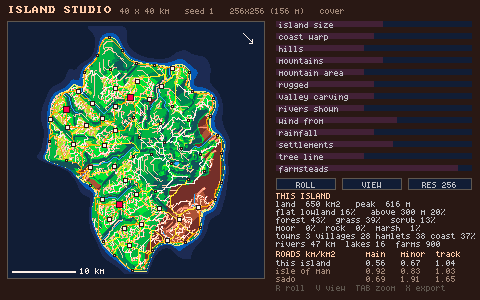
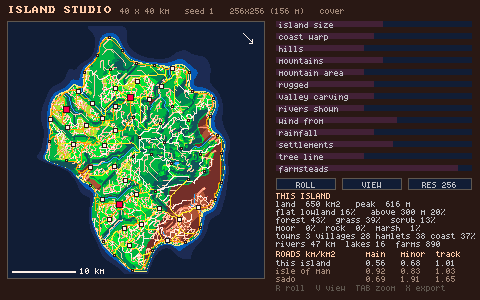
islandstudio: town streets (towns and villages get a street grid instead of a star)
citygen's district-fill method (rotated ~130 m lattice, spanning tree + loops; 85% loops in
the core, 40% outside) laid on the road grid, aligned to the main road in, snapped onto the
routes that enter. Bresenham street cells keep streets straight through the smoother.
Seed 3 @1024: minor 0.46 -> 0.52, X 5% -> 11%, circuity 1.62 -> 1.45. 256 calibration holds.
Export contract unchanged (streets are kind road).

Changed region(s): [[0.0938, 0.21, 0.4375, 0.9], [0.2188, 0.12, 0.25, 0.18]]

diff --git a/tools/carts/islandstudio.c b/tools/carts/islandstudio.c
@@ -849,6 +849,140 @@ static void farms(void) {
     }
 }
 
+// ── TOWN STREETS: towns and villages get a street grid instead of being a star of routes that all
+// end at one centre cell. citygen.h's method (rung 4, calibrated to real cities), re-done on the
+// road GRID so streets go through the same smoothing, junction consolidation, splitting and export
+// as every other road: a rotated lattice (~130 m blocks) aligned to the main road in, clipped to a
+// ragged disc on buildable land; nodes near an existing road snap onto it (the routes in become
+// the town's main streets); a spanning tree for connectivity plus a fraction of loops (more in the
+// core, fewer at the edge: a grid centre, cul-de-sacs outside). citygen.h itself isn't included:
+// it reads worldnet.h's terrain, not this island's.
+#define TS_LG 15
+static int st_streets;                      // street segments laid (trace)
+static int ts_find(int *uf, int x) { while (uf[x] != x) x = uf[x] = uf[uf[x]]; return x; }
+static int ts_road(int c) { for (int k = 0; k < 8; k++) if (ER[c][k] && ER[c][k] != RC_EXPRESS) return 1; return 0; }
+static int ts_land(int c) {
+    if (H[c] <= 0 || is_lake(c) || river_cell(c)) return 0;
+    for (int k = 0; k < 8; k++) if (ER[c][k] == RC_EXPRESS) return 0;   // no street onto the expressway
+    return 1;
+}
+// the straight cell run a -> b (as line_cells walks it) into out; 0 if it leaves buildable land or is too steep
+static int ts_path(int a, int b, int *out, int *n) {
+    // Bresenham, 8-connected: the cells hug the true line, so the smoother draws a straight street
+    // (walking diagonal-first then straight made an L the smoother turned into an S-wiggle)
+    int x = a % N, y = a / N, tx = b % N, ty = b / N; *n = 0;
+    int dx = abs(tx - x), dy = -abs(ty - y), sx = tx > x ? 1 : -1, sy = ty > y ? 1 : -1, err = dx + dy;
+    out[(*n)++] = a;
+    while (x != tx || y != ty) {
+        int e2 = 2 * err;
+        if (e2 >= dy) { err += dy; x += sx; }
+        if (e2 <= dx) { err += dx; y += sy; }
+        int c = y * N + x; if (!ts_land(c)) return 0;
+        out[(*n)++] = c;
+    }
+    float len = hypotf((float)(a % N - b % N), (float)(a / N - b / N)) * CELL;
+    return fabsf(H[a] - H[b]) / fmaxf(len, 1) < 0.12f;
+}
+static void town_streets(void) {
+    st_streets = 0;
+    static int lg[TS_LG][TS_LG], uf[TS_LG * TS_LG], deg[TS_LG * TS_LG], onr[TS_LG * TS_LG], cellof[TS_LG * TS_LG];
+    static float rad[TS_LG * TS_LG];
+    static int ea[2 * TS_LG * TS_LG], eb[2 * TS_LG * TS_LG]; static float ew[2 * TS_LG * TS_LG];
+    static int path[MAXN * 2];
+    for (int s = 0; s < nset; s++) {
+        if (set[s].rank == ST_HAMLET) continue;
+        float R = set[s].rank == ST_TOWN ? 600.0f : 230.0f;
+        float step = fmaxf(130.0f, CELL);
+        int c0 = set[s].y * N + set[s].x;
+        float cx = (set[s].x + 0.5f) * CELL, cy = (set[s].y + 0.5f) * CELL;
+        unsigned hs = hsh((unsigned)s * 2654435761u ^ (unsigned)seed * 97u);
+        // orientation: along the biggest road into the centre (walked ~250 m out), else hashed
+        float ang = (hs & 1023) / 1023.0f * 3.14159f; int best = 0;
+        for (int k = 0; k < 8; k++) if (ER[c0][k] > best && ER[c0][k] != RC_EXPRESS) {
+            best = ER[c0][k]; int cur = c0, kk = k, steps = (int)(250.0f / CELL) + 1;
+            for (int q = 0; q < steps; q++) {
+                int nx = cur % N + DX[kk], ny = cur / N + DY[kk]; cur = ny * N + nx;
+                int nk = -1; for (int j = 0; j < 8; j++) if (ER[cur][j] && j != OPP[kk]) { nk = j; break; }
+                if (nk < 0) break; kk = nk;
+            }
+            ang = atan2f((float)(cur / N - set[s].y), (float)(cur % N - set[s].x));
+        }
+        float ca = cosf(ang), sa = sinf(ang);
+        int half = (int)(R / step) + 1; if (2 * half + 1 > TS_LG) half = (TS_LG - 1) / 2;
+        int n = 0;
+        for (int r = -half; r <= half; r++) for (int c = -half; c <= half; c++) {
+            int *slot = &lg[r + half][c + half]; *slot = -1;
+            unsigned h = hsh(hs ^ (unsigned)((r + 31) * 131 + (c + 31)));
+            float d = hypotf((float)r, (float)c) * step;
+            float jit = d < R * 0.45f ? 0.08f : 0.30f;            // a regular core, a looser edge
+            float lx = c * step + ((h & 255) / 255.0f - 0.5f) * step * jit;
+            float ly = r * step + (((h >> 8) & 255) / 255.0f - 0.5f) * step * jit;
+            float px = cx + lx * ca - ly * sa, py = cy + lx * sa + ly * ca;
+            float rr = hypotf(px - cx, py - cy);
+            if (rr > R * (0.8f + 0.35f * ((h >> 16) & 255) / 255.0f)) continue;   // ragged edge
+            int gx = (int)(px / CELL), gy = (int)(py / CELL);
+            if (gx < 1 || gy < 1 || gx >= N - 1 || gy >= N - 1) continue;
+            int cell = (r == 0 && c == 0) ? c0 : gy * N + gx, on = r == 0 && c == 0;
+            if (!on) {                                            // snap onto a road nearby: it becomes a street
+                int sr = (int)(fmaxf(CELL, step * 0.3f) / CELL + 0.5f); float bd = 1e9f;
+                for (int yy = gy - sr; yy <= gy + sr; yy++) for (int xx = gx - sr; xx <= gx + sr; xx++) {
+                    int q = yy * N + xx; if (!ts_road(q)) continue;
+                    float dd = (float)((xx - gx) * (xx - gx) + (yy - gy) * (yy - gy));
+                    if (dd < bd) { bd = dd; cell = q; on = 1; }
+                }
+                if (!on && (!ts_land(cell) || slope_at(cell % N, cell / N) > 0.15f)) continue;
+            }
+            int dup = 0; for (int q = 0; q < n; q++) if (cellof[q] == cell) dup = 1;
+            if (dup) continue;
+            *slot = n; cellof[n] = cell; onr[n] = on; rad[n] = rr; uf[n] = n; deg[n] = 0; n++;
+        }
+        if (n < 2) continue;
+        int root = -1;                                            // everything on a road is already connected
+        for (int q = 0; q < n; q++) if (onr[q]) { if (root < 0) root = q; else uf[ts_find(uf, q)] = ts_find(uf, root); }
+        int ne = 0;
+        for (int r = 0; r < 2 * half + 1; r++) for (int c = 0; c < 2 * half + 1; c++) {
+            int a = lg[r][c]; if (a < 0) continue;
+            int nb[2] = { c + 1 < 2 * half + 1 ? lg[r][c + 1] : -1, r + 1 < 2 * half + 1 ? lg[r + 1][c] : -1 };
+            for (int e = 0; e < 2; e++) if (nb[e] >= 0) {
+                ea[ne] = a; eb[ne] = nb[e];
+                ew[ne] = (hsh(hs ^ (unsigned)(a * 977 + nb[e] * 31 + e)) & 65535) / 65535.0f; ne++;
+            }
+        }
+        for (int i = 1; i < ne; i++) for (int j = i; j > 0 && ew[j] < ew[j - 1]; j--) {
+            float tw = ew[j]; ew[j] = ew[j - 1]; ew[j - 1] = tw;
+            int t = ea[j]; ea[j] = ea[j - 1]; ea[j - 1] = t; t = eb[j]; eb[j] = eb[j - 1]; eb[j - 1] = t;
+        }
+        for (int i = 0; i < ne; i++) {
+            int a = ea[i], b = eb[i], np;
+            if (onr[a] && onr[b]) {                               // both on roads: skip if that road already joins them
+                if (!ts_path(cellof[a], cellof[b], path, &np)) continue;
+                int all = 1; for (int q = 0; q < np && all; q++) if (!ts_road(path[q])) all = 0;
+                if (all) continue;
+            }
+            int ra = ts_find(uf, a), rb = ts_find(uf, b);
+            float d = (rad[a] + rad[b]) * 0.5f;
+            float loopf = d < R * 0.5f ? 0.85f : 0.4f;           // closed blocks in the core, cul-de-sacs outside          // grid core, tree-like edge
+            int cap = d < R * 0.5f ? 4 : 3;                      // crossroads in the core, Ts outside
+            int tree = ra != rb;
+            if (!tree && !((hsh(hs ^ (unsigned)(i * 7919)) & 1023) / 1023.0f < loopf && deg[a] < cap && deg[b] < cap)) continue;
+            if (!ts_path(cellof[a], cellof[b], path, &np)) continue;
+            mark(path, np, RC_LANE, 0, 0, 0);
+            deg[a]++; deg[b]++; st_streets++;
+            if (tree) uf[ra] = rb;
+        }
+        // pieces cut off by water or slope: join each to the town by the cheapest route, if short
+        int rr0 = root >= 0 ? ts_find(uf, root) : -1;
+        for (int q = 0; q < n; q++) {
+            int rq = ts_find(uf, q); if (rq == rr0 || rq != q) continue;
+            int bestq = -1; float bd = 1e9f;
+            for (int p = 0; p < n; p++) if (ts_find(uf, p) == rq && rad[p] < bd) { bd = rad[p]; bestq = p; }
+            int np2;
+            if (astar(cellof[bestq], c0, RM_LINK, pbuf, &np2, step * 4) >= 0) mark(pbuf, np2, RC_LANE, 0, 0, 0);
+            uf[rq] = rr0 >= 0 ? rr0 : rq;
+        }
+    }
+}
+
 // ── 5 (v2): carve valleys from the SMOOTHED river lines, not per cell. Per-cell carving left a
 // staircase along every diagonal river (an 8-direction chain touches only at corners, so its
 // neighbours stayed high): sawtooth walls, rock teeth, diagonal bands in the hillshade. Now each
@@ -1448,6 +1582,7 @@ static void build_roads(void) {
                 mark(pbuf, n, RC_TRACK, 0, 0, 1);
         }
     }
+    town_streets();
     farms();
     upland_tracks();
     fix_diagonal_crossings();
@@ -1559,7 +1694,7 @@ void update(void) {
     watch("seed", "%d", seed); watch("nset", "%d", nset); watch("coastal", "%d", st_coastal);
     watch("moor", "%d", (int)st_cov[CV_MOOR]); watch("forest", "%d", (int)st_cov[CV_FOREST]);
     watch("land", "%d", (int)st_land); watch("npl", "%d", npl); watch("express", "%d", st_express);
-    watch("ringgaps", "%d", st_ringgaps); watch("bridges", "%d", nbr); watch("lakes", "%d", st_lakes); watch("N", "%d", N); watch("diagx", "%d", st_diagx); watch("cuts", "%d", st_cuts); watch("consol", "%d", st_consol); watch("flyovers", "%d", st_flyovers); watch("interchanges", "%d", st_interchanges); watch("rebuild_ms", "%.0f", st_rebuild_ms); watch("overflow", "%d", st_overflow); watch("links", "lane %d/%d sec %d/%d main %d/%d", st_link_ok[0], st_link_try[0], st_link_ok[1], st_link_try[1], st_link_ok[2], st_link_try[2]); { int bb = -1; for (int b = 0; b < nbr; b++) if (bb < 0 || br[b].len > br[bb].len) bb = b;
+    watch("ringgaps", "%d", st_ringgaps); watch("bridges", "%d", nbr); watch("lakes", "%d", st_lakes); watch("N", "%d", N); watch("diagx", "%d", st_diagx); watch("cuts", "%d", st_cuts); watch("consol", "%d", st_consol); watch("streets", "%d", st_streets); watch("flyovers", "%d", st_flyovers); watch("interchanges", "%d", st_interchanges); watch("rebuild_ms", "%.0f", st_rebuild_ms); watch("overflow", "%d", st_overflow); watch("links", "lane %d/%d sec %d/%d main %d/%d", st_link_ok[0], st_link_try[0], st_link_ok[1], st_link_try[1], st_link_ok[2], st_link_try[2]); { int bb = -1; for (int b = 0; b < nbr; b++) if (bb < 0 || br[b].len > br[bb].len) bb = b;
       if (bb >= 0) { watch("bigbridge_x", "%.0f", br[bb].x); watch("bigbridge_y", "%.0f", br[bb].y); watch("bigbridge_len", "%.0f", br[bb].len); } } watch("rivers", "%d", nrv);
     watch("forest_tracks", "%d", nforest); watch("upland_tracks", "%d", nupland); watch("roads_ms", "%.0f", st_roads_ms);
     for (int k = RC_TRACK; k < NRC; k++) watch(RCN[k], "%.0f", st_road[k]);

diff --git a/docs/design/island-studio.md b/docs/design/island-studio.md
@@ -316,6 +316,7 @@ junctions go. Seed 1 @1024 (393 consolidations), against the Isle of Man:
 
 Open: every route into a town ends at the town's centre cell, so towns are 6–8-arm stars whose
 corner fillets leave holes in backroads. That's for town streets (citygen), not more patching.
+(Done: see "Town streets" below.)
 
 ## Grade separation (2026-11-20)
 
@@ -337,3 +338,37 @@ expressway still meets the network at grade where it ends (in towns).
 
 4. **Farmland**: fields spread from villages along roads onto flat ground, replacing natural cover.
 5. **Bake + hand to backroads**: export the grid (heights, rivers, roads, villages) and drive it.
+
+## Town streets (2026-11-20)
+
+Towns and villages used to be stars: every route ended at one centre cell. `town_streets()` now
+gives each a street grid, using `citygen.h`'s district-fill method (rung 4: a rotated lattice, a
+spanning tree for connectivity plus a fraction of loops) re-done **on the road grid**, so streets go
+through the same smoothing, corner cut, junction consolidation, polyline splitting and export as
+every other road. `citygen.h` itself isn't included: it reads `worldnet.h`'s terrain, not this
+island's, and its building/lot layer was never finished anyway (worldgen-plan rung 7).
+
+- A lattice of ~130 m blocks (towns: 600 m disc, villages: 230 m), turned to follow the biggest road
+  into the centre (walked ~250 m out), with a ragged edge and more jitter outside the core.
+- Lattice nodes near an existing road **snap onto it**, so the routes in become the main streets;
+  streets never touch water, a river cell, the expressway or slopes over 12 %.
+- Loops: 85 % in the core (closed blocks, crossroads allowed), 40 % outside (Ts, cul-de-sacs).
+- Street cells are rasterized with Bresenham: the first version walked diagonal-then-straight, an L
+  that the smoother turned into an S-wiggle (towns looked like spaghetti).
+- Pieces cut off by water join the town by a short route, or stay out.
+- Exported as `road` (lane class), so backroads' contract is unchanged.
+
+At 256 (156 m cells, one street per cell) it barely shows and calibration holds (seeds 1/3/6:
+minor +0.01–0.02, X 7–9 %). At 1024, against the stars:
+
+| | minor | dead | T | X | circuity |
+|---|---|---|---|---|---|
+| Isle of Man | 0.83 | 35 % | 56 % | 5.2 % | 1.57 |
+| seed 1 before | 0.74 | 35 % | 60 % | 4.8 % | 1.59 |
+| seed 1 after | 0.81 | 34 % | 56 % | 9.8 % | 1.46 |
+| seed 3 before | 0.46 | 35 % | 60 % | 5.1 % | 1.62 |
+| seed 3 after | 0.52 | 34 % | 55 % | 11.2 % | 1.45 |
+
+Crossroads now sit between the Isle of Man (5 %) and Sado (12 %): town-centre grids are where real
+crossroads are. Open: old field tracks from nearby hamlets still cross some towns; houses/lots
+(citygen rung 7's unfinished half) for when backroads drives into villages.
